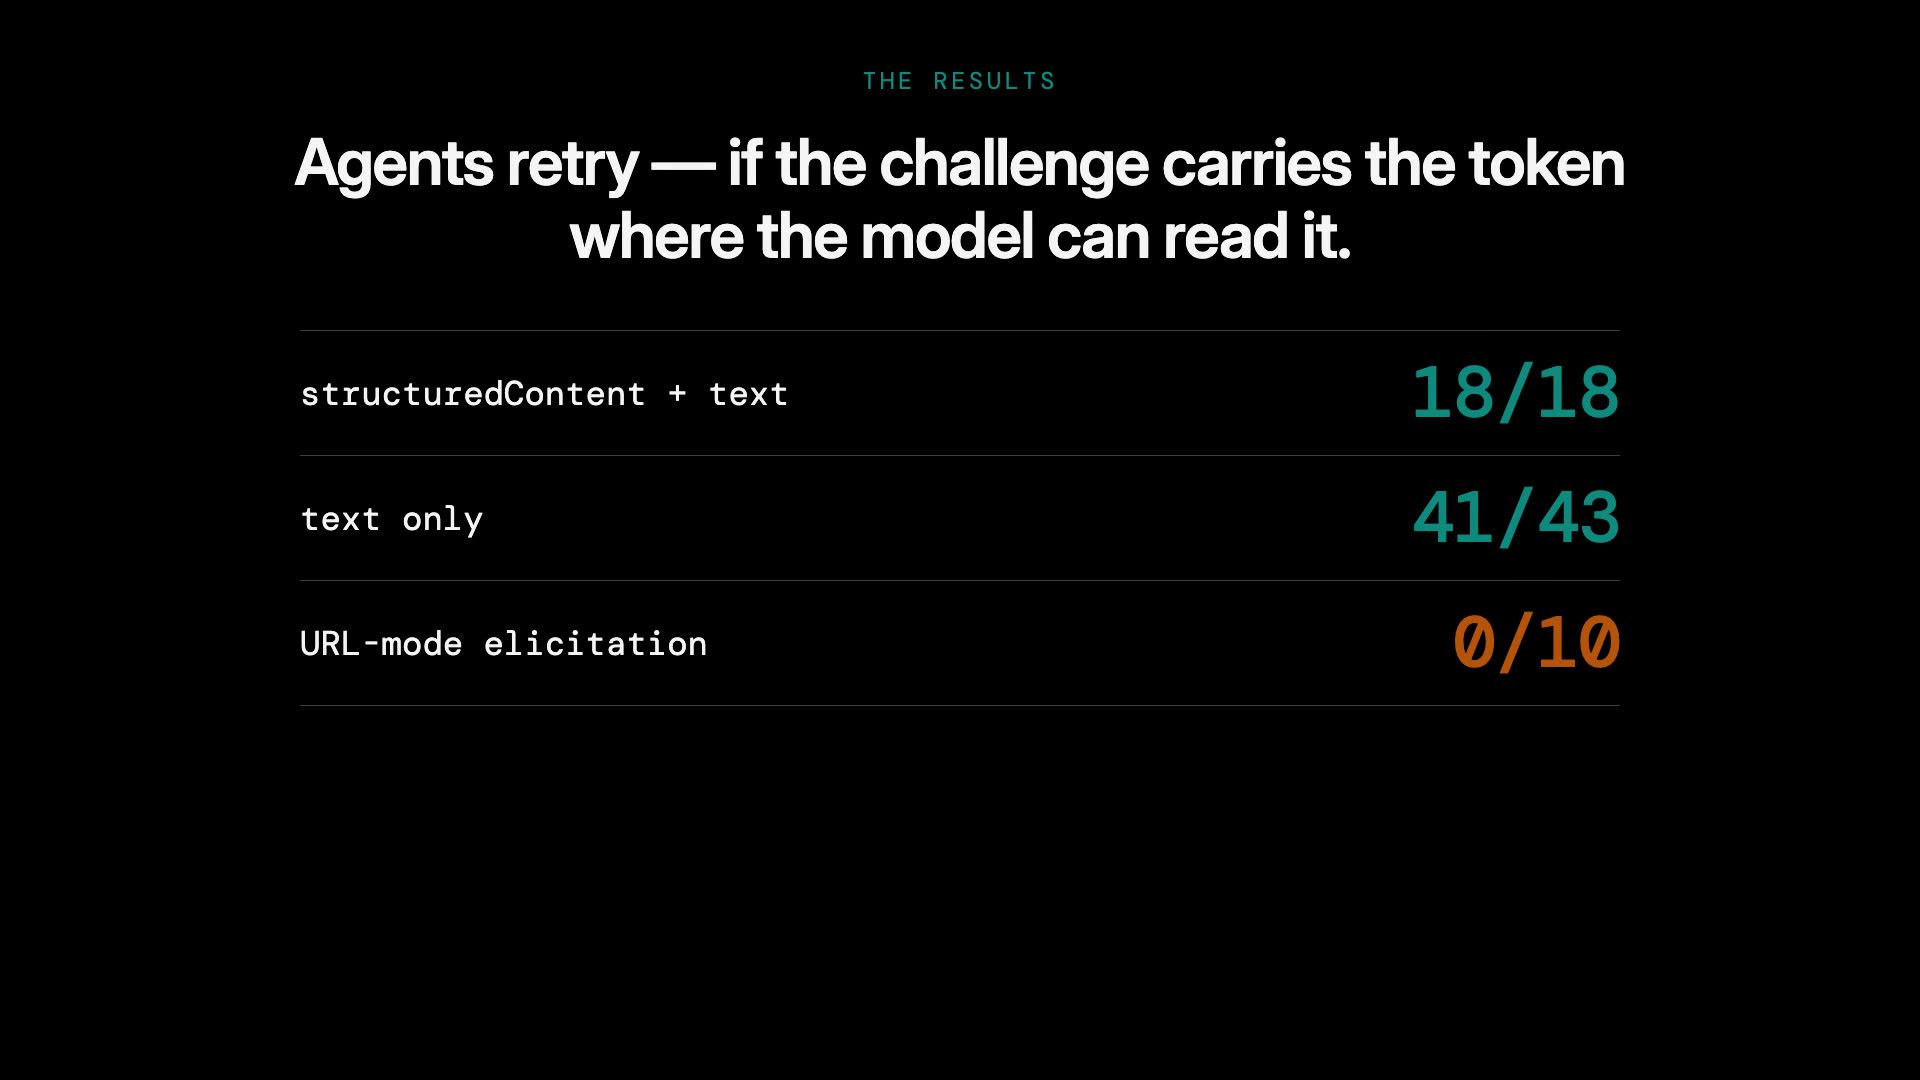
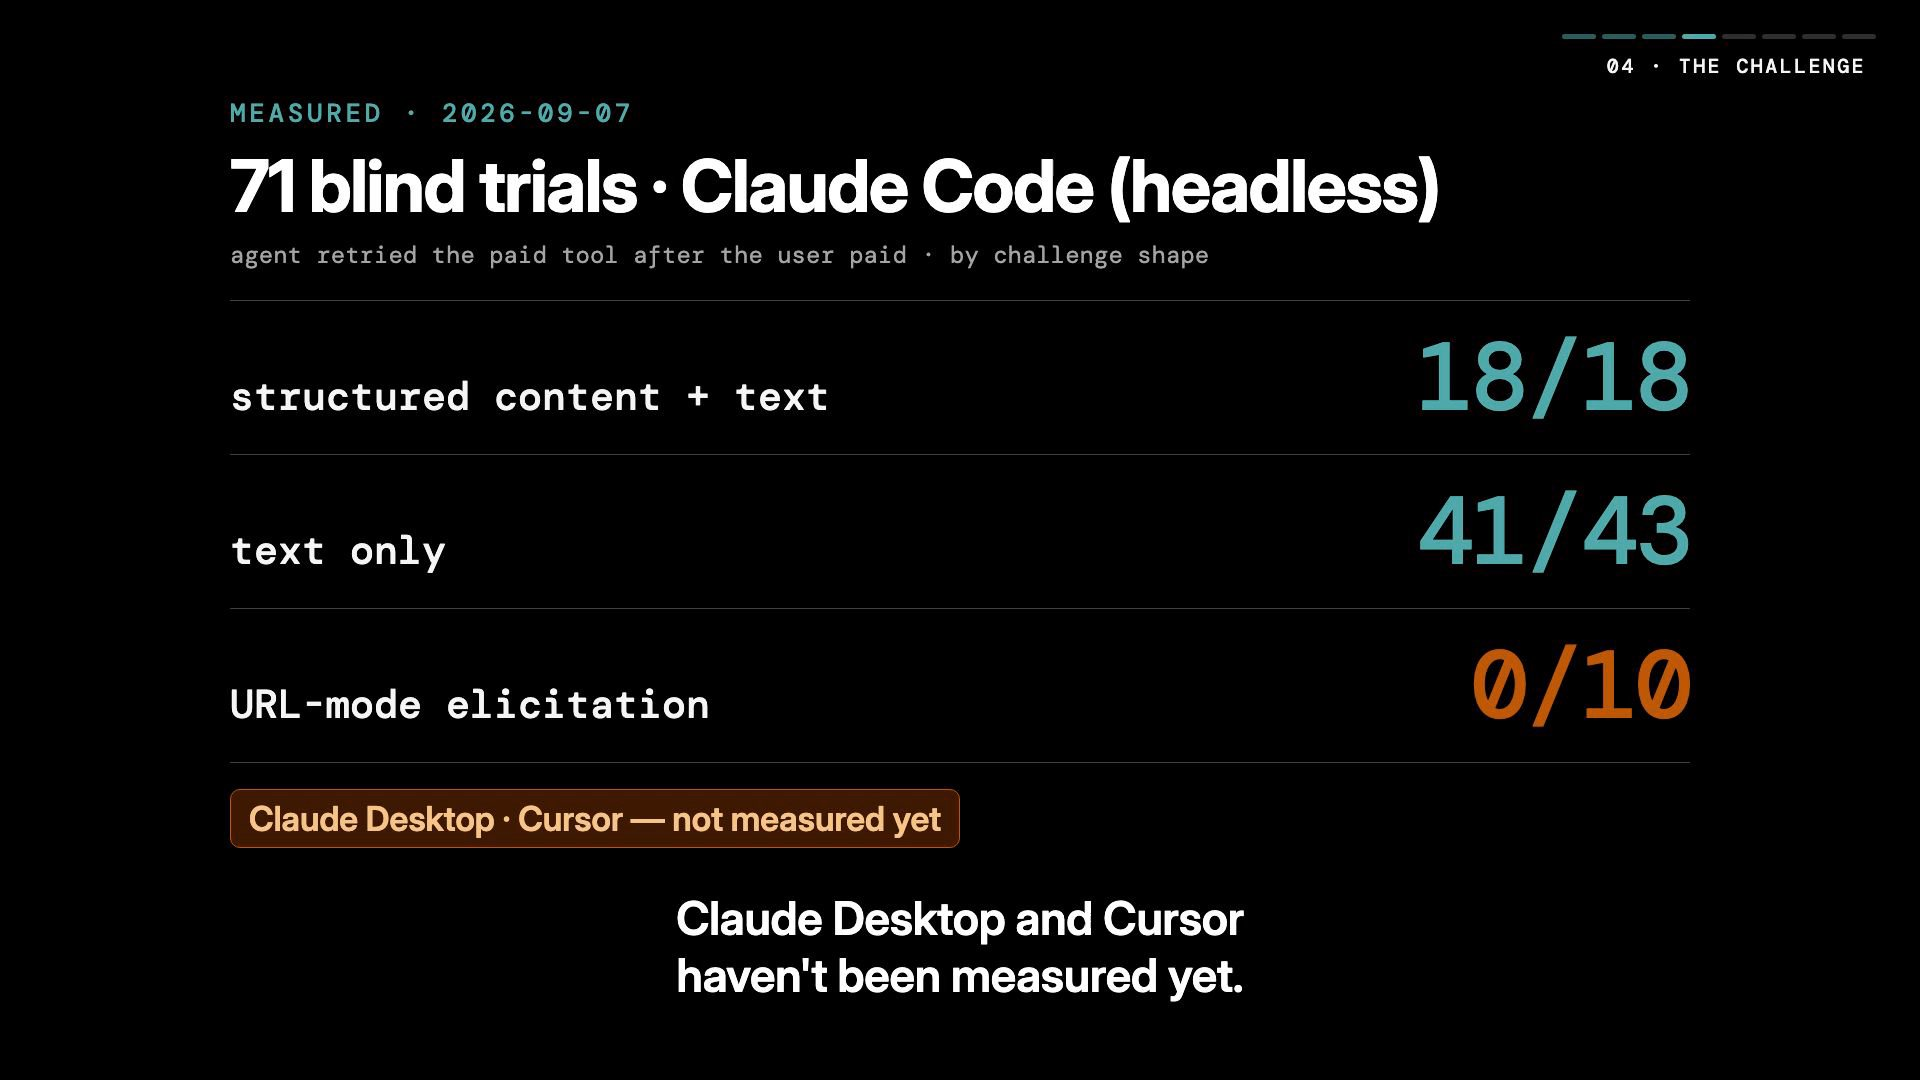
Point every surface at the new demo, 0M-8QwF-Phw
One source, site/content/measurements.ts, feeds the landing and docs facade,
the README's generated watch block and the video module. Runtime 2:30 from
YouTube's own length. Poster and thumbnail are a frame of the new film. The
README line now claims only what is true of it: the results on screen come
from the same file the site reads.

diff --git a/site/content/measurements.ts b/site/content/measurements.ts
@@ -20,13 +20,14 @@ export const QUICKSTART = `${REPO}/tree/main/examples/research-tools`;
 export const DESKTOP_TEST = `${REPO}/blob/main/DESKTOP-TEST.md`;
 
 /**
- * The narrated explainer, on YouTube. The silent 150s render in `video/` is the
- * source this was cut from and stays in the repository; this is the one with a
- * voice on it, and the one people are pointed at.
+ * The narrated demo, on YouTube: the one every surface points at (the landing
+ * page and docs facade, the README). The silent render in `video/` is older and
+ * stays in the repository; it is not this film. The runtime is YouTube's own
+ * length for the upload, 150 s.
  */
-export const VIDEO_ID = "b6e7yKd9cKY";
+export const VIDEO_ID = "0M-8QwF-Phw";
 export const VIDEO_URL = `https://youtu.be/${VIDEO_ID}`;
-export const VIDEO_RUNTIME = "1:58";
+export const VIDEO_RUNTIME = "2:30";
 export const SERVER = "https://tollbooth-server-production.up.railway.app";
 export const MOOVE = "https://moove.xyz";
 

diff --git a/video/src/measurements.generated.ts b/video/src/measurements.generated.ts
@@ -21,13 +21,14 @@ export const QUICKSTART = `${REPO}/tree/main/examples/research-tools`;
 export const DESKTOP_TEST = `${REPO}/blob/main/DESKTOP-TEST.md`;
 
 /**
- * The narrated explainer, on YouTube. The silent 150s render in `video/` is the
- * source this was cut from and stays in the repository; this is the one with a
- * voice on it, and the one people are pointed at.
+ * The narrated demo, on YouTube: the one every surface points at (the landing
+ * page and docs facade, the README). The silent render in `video/` is older and
+ * stays in the repository; it is not this film. The runtime is YouTube's own
+ * length for the upload, 150 s.
  */
-export const VIDEO_ID = "b6e7yKd9cKY";
+export const VIDEO_ID = "0M-8QwF-Phw";
 export const VIDEO_URL = `https://youtu.be/${VIDEO_ID}`;
-export const VIDEO_RUNTIME = "1:58";
+export const VIDEO_RUNTIME = "2:30";
 export const SERVER = "https://tollbooth-server-production.up.railway.app";
 export const MOOVE = "https://moove.xyz";
 

diff --git a/site/components/explainer.tsx b/site/components/explainer.tsx
@@ -34,7 +34,7 @@ export const Explainer = ({
         <iframe
           className="h-full w-full"
           src={`https://www.youtube-nocookie.com/embed/${VIDEO_ID}?autoplay=1&rel=0&modestbranding=1`}
-          title="Tollbooth — paid MCP tools, paid for by a human, settled on any chain"
+          title="A paywall for MCP servers — Tollbooth, settled on Moove"
           allow="accelerometer; autoplay; clipboard-write; encrypted-media; gyroscope; picture-in-picture; web-share"
           referrerPolicy="strict-origin-when-cross-origin"
           allowFullScreen

diff --git a/README.md b/README.md
@@ -48,12 +48,12 @@ challenge's token bearer.
 
 <!-- measured:WATCH (generated from site/content/measurements.ts) -->
 <p align="center">
-  <a href="https://youtu.be/b6e7yKd9cKY">
+  <a href="https://youtu.be/0M-8QwF-Phw">
     <img src="site/public/explainer-thumb.jpg" alt="Play the Tollbooth explainer on YouTube" width="640">
   </a>
 </p>
 
-<p align="center"><sub>1:58 on YouTube. Every figure on screen comes from the same file the site reads.</sub></p>
+<p align="center"><sub>2:30 on YouTube. The results on screen come from the same file the site reads.</sub></p>
 <!-- /measured:WATCH -->
 
 ## Quickstart
